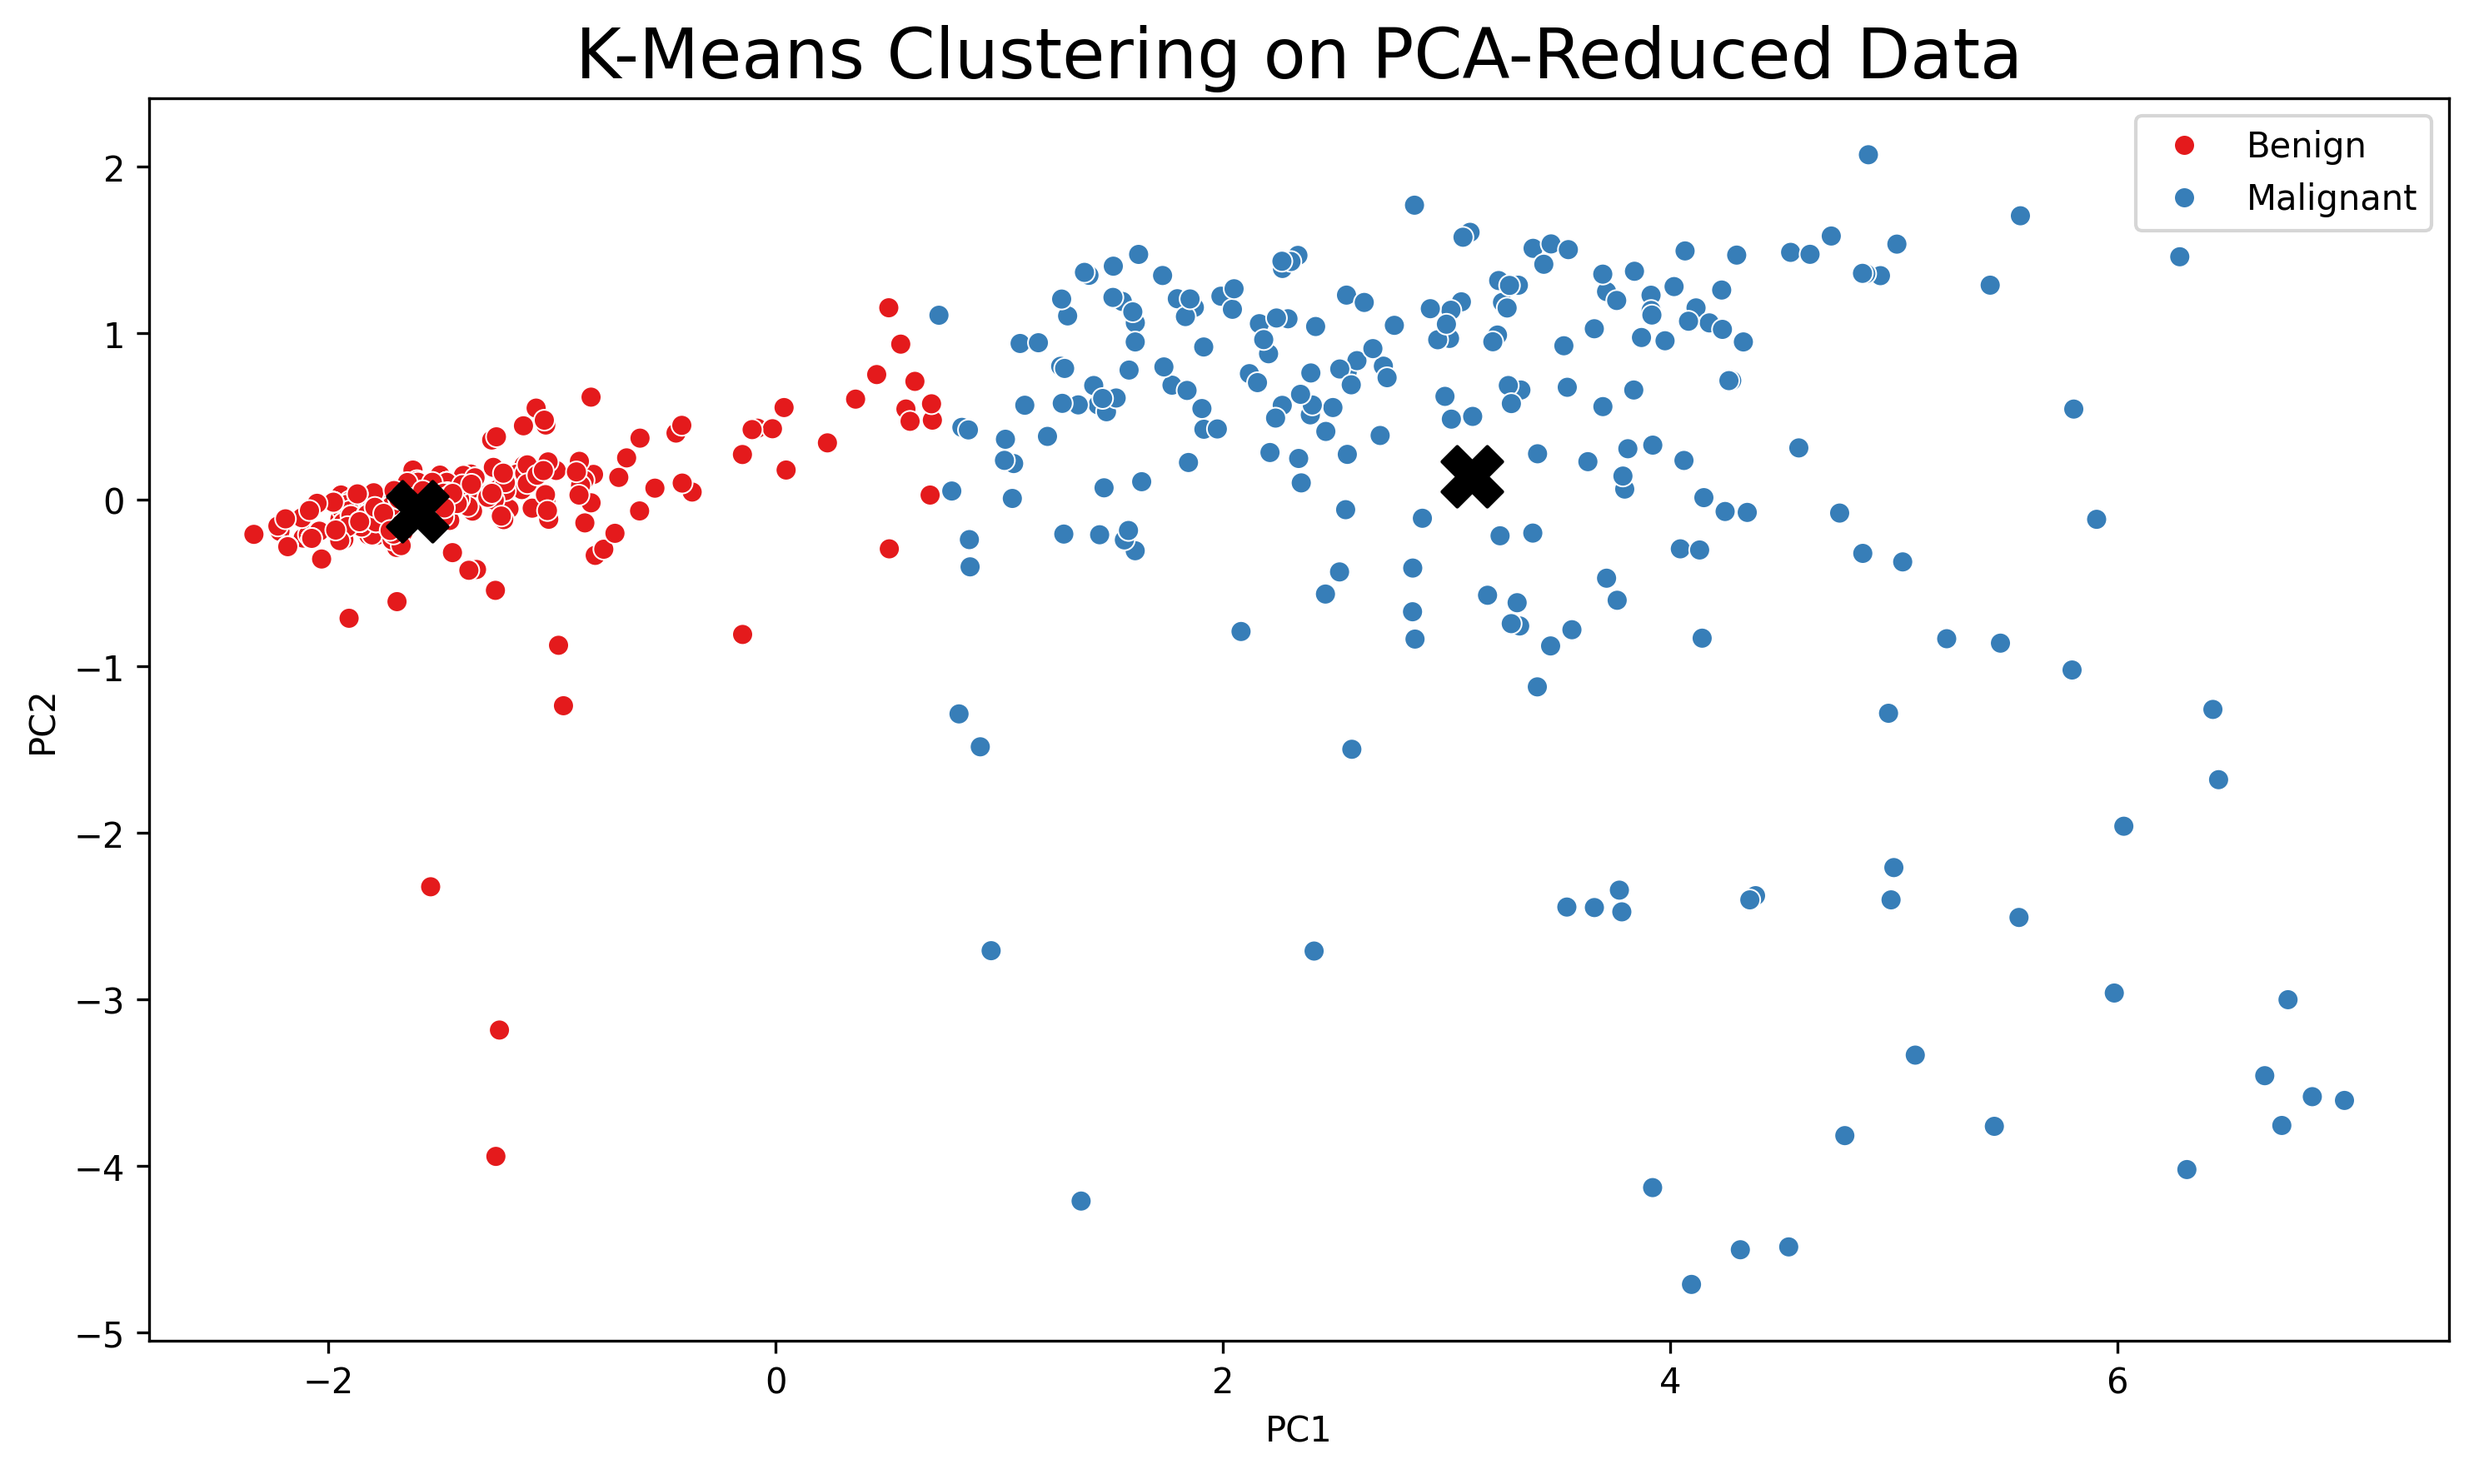
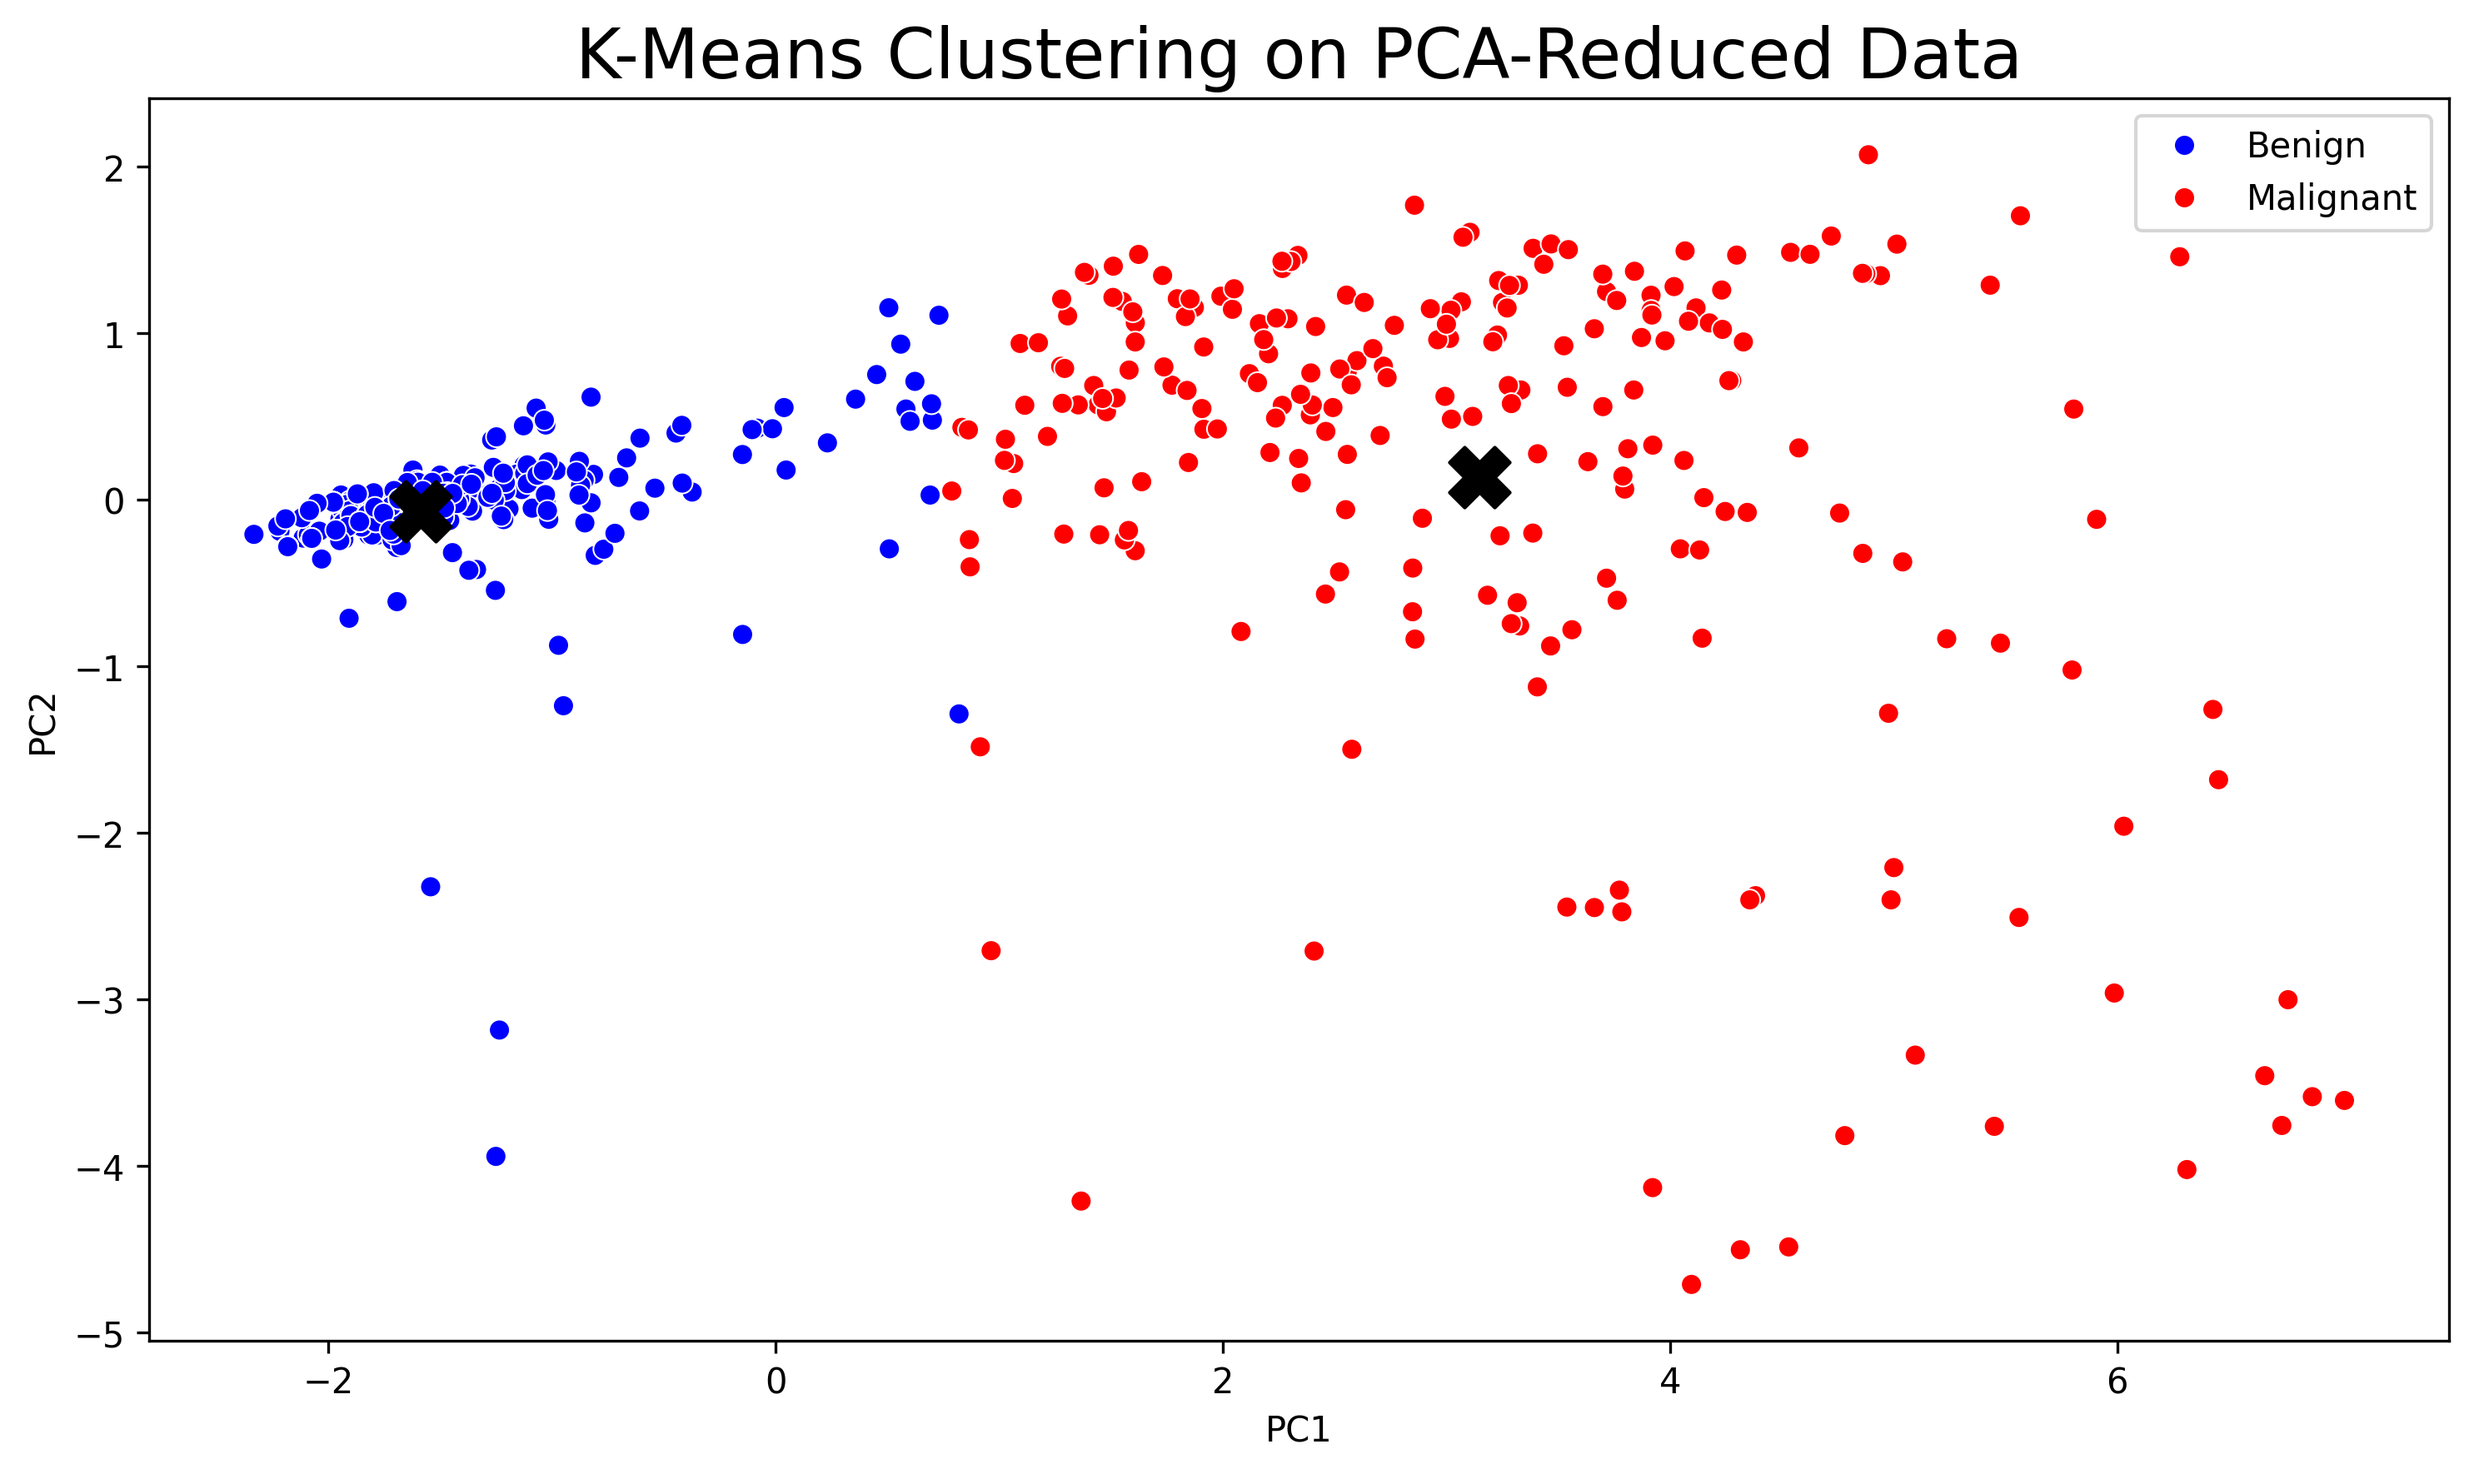
colour changes for tumour classes

diff --git a/src/pca_analysis.py b/src/pca_analysis.py
@@ -199,22 +199,22 @@ def main() -> None:
     df = load_breast_cancer_data("Data/breast-cancer-wisconsin.data")
 
     # Build feature matrix X and label vector y
-    X_df: pd.DataFrame = df.drop(columns=["Sample_ID", "Class"])
-    X = X_df.values.astype(float)
-    y = df["Class"].map({2: 0, 4: 1}).values  # 0 = benign, 1 = malignant
+    feature_df: pd.DataFrame = df.drop(columns=["Sample_ID", "Class"])
+    feature_matrix = feature_df.values.astype(float)
+    target_labels = df["Class"].map({2: 0, 4: 1}).values  # 0 = benign, 1 = malignant
 
     # Standardise features
-    X_std = standardise_features(X)
+    features_std = standardise_features(feature_matrix)
 
     # PCA via eigen-decomposition
-    eigenvalues_sorted, eigenvectors_sorted = compute_pca(X_std)
+    eigenvalues_sorted, eigenvectors_sorted = compute_pca(features_std)
 
     # Variance plot (all components)
     plot_prob_of_variance(eigenvalues_sorted, highlight_components=(2, 3))
 
     # Project onto first two PCs and scatter plot
-    X_pca_2d = project_onto_pcs(X_std, eigenvectors_sorted, n_components=2)
-    plot_pca_scatter(X_pca_2d, y)
+    project_pca_2d = project_onto_pcs(features_std, eigenvectors_sorted, n_components=2)
+    plot_pca_scatter(project_pca_2d, target_labels)
 
     # Scree plot
     plot_scree(eigenvalues_sorted)

diff --git a/src/clustering_kmeans.py b/src/clustering_kmeans.py
@@ -118,9 +118,13 @@ label_to_name = {0: "Benign", 1: "Malignant"}
 cluster_names = np.array([label_to_name[cluster_to_label[c]] for c in clusters])
 
 # Plot the clustered data with centroids
+custom_palette = {"Benign": "blue", "Malignant": "red"}
 plt.figure(figsize=(10, 6))
 sns.scatterplot(
-    x=pca_scores_2D[:, 0], y=pca_scores_2D[:, 1], hue=cluster_names, palette="Set1"
+    x=pca_scores_2D[:, 0],
+    y=pca_scores_2D[:, 1],
+    hue=cluster_names,
+    palette=custom_palette,
 )
 plt.scatter(centroids[:, 0], centroids[:, 1], s=300, c="black", marker="X")
 plt.title("K-Means Clustering on PCA-Reduced Data", fontsize=20)
